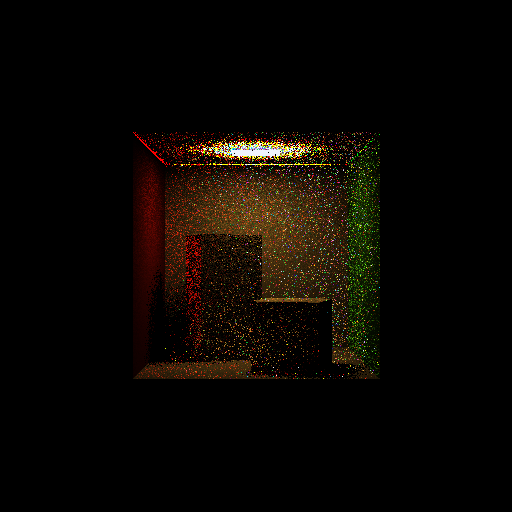
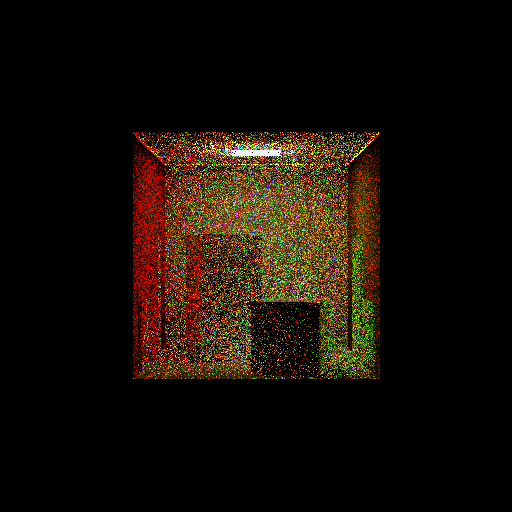
rotate right, res wrong

Changed region(s): [[0.25, 0.25, 0.75, 0.75]]

diff --git a/cg-final/render/ray_tracer.hpp b/cg-final/render/ray_tracer.hpp
@@ -1,6 +1,7 @@
 #pragma once
 
 #include <glm/glm.hpp>
+#include <glm/gtc/matrix_transform.hpp>
 #include <time.h>
 #include <stdlib.h>
 #include "ray.hpp"
@@ -89,6 +90,15 @@ public:
 					auto r2 = rand() / float(RAND_MAX);
 					next_dir = glm::vec3(sqrtf(1 - powf(r1, 2)) * cosf(2 * M_PI * r2), sqrtf(1 - powf(r1, 2)) * sinf(2 * M_PI * r2), r1);
 					next_dir = glm::normalize(next_dir);
+
+					auto z = glm::vec3(0, 0, 1);
+					auto new_z = hit.getNormal();
+					auto new_x = glm::cross(z, new_z);
+					auto new_y = glm::cross(new_z, new_x);
+					auto rot_matrix = glm::mat3x3{ new_x,new_y,new_z };
+
+					next_dir = rot_matrix * next_dir;
+					//if (glm::dot(next_dir, new_z) < 0) std::cout << "nooo";
 				}
 				Ray next_ray(pin + next_dir * epsilon, next_dir);
 				Hit next_hit(MAXnum, scene->bg_mat, n0);
